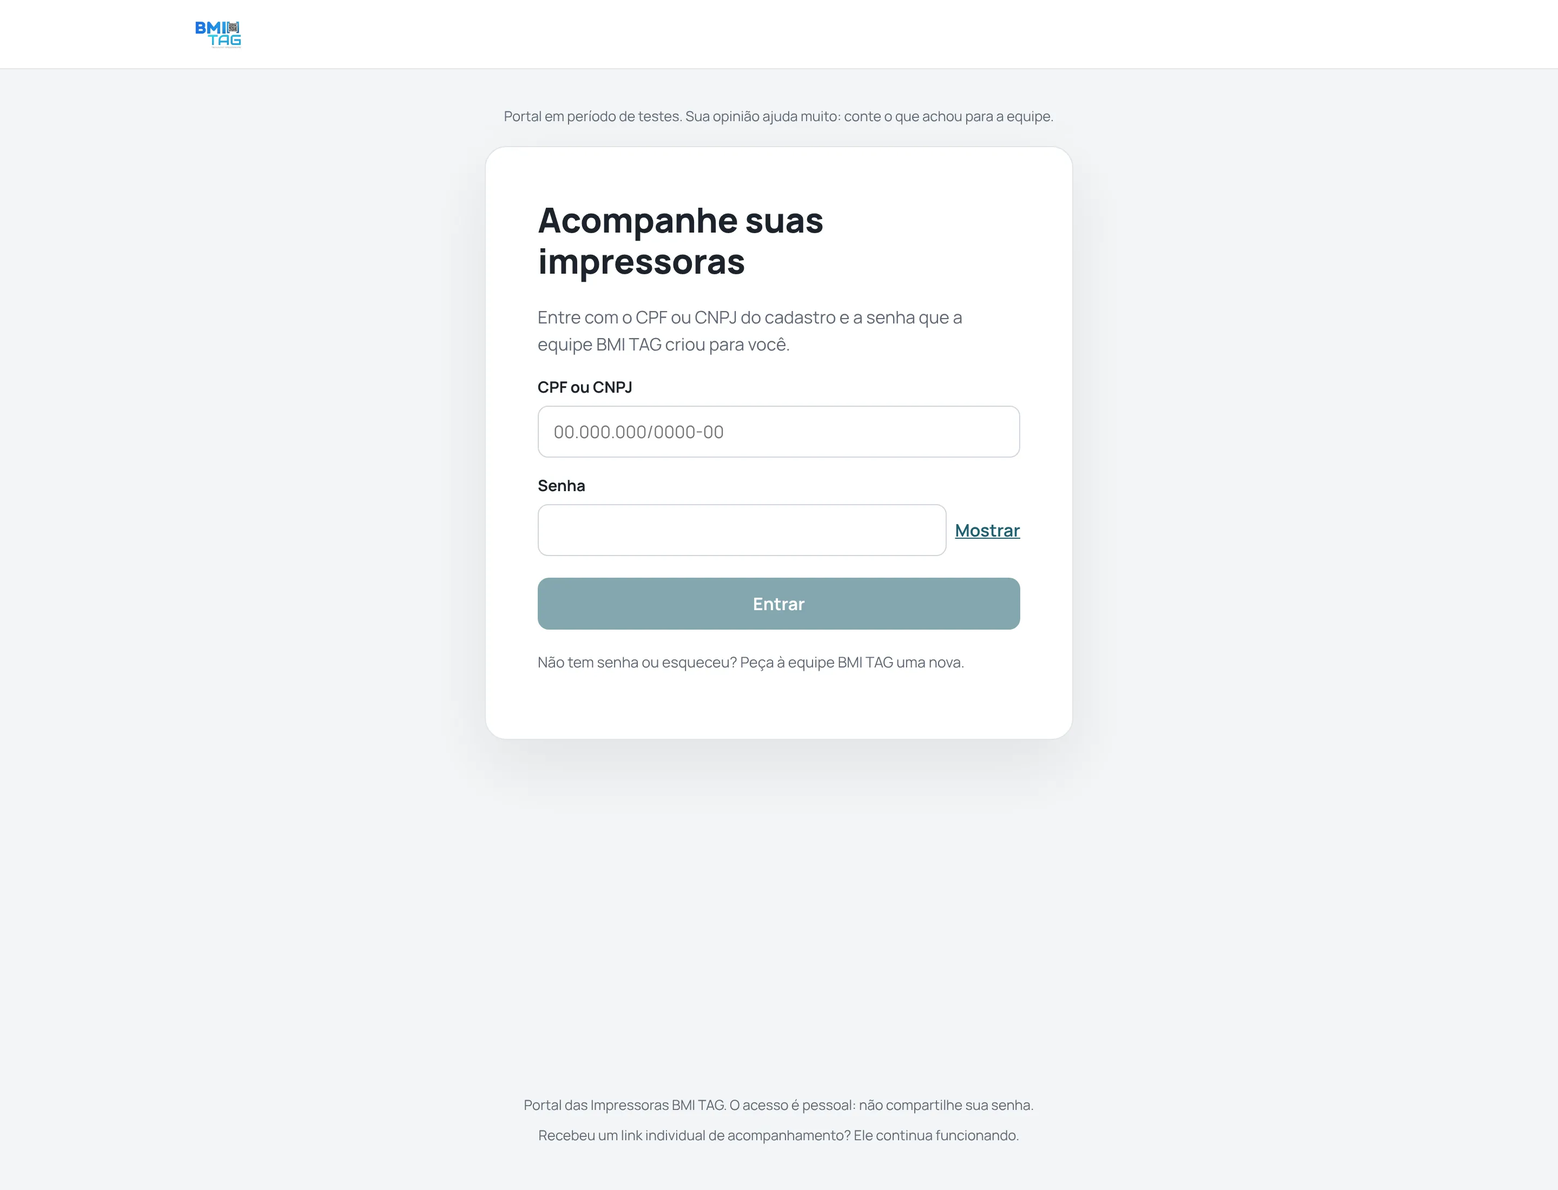
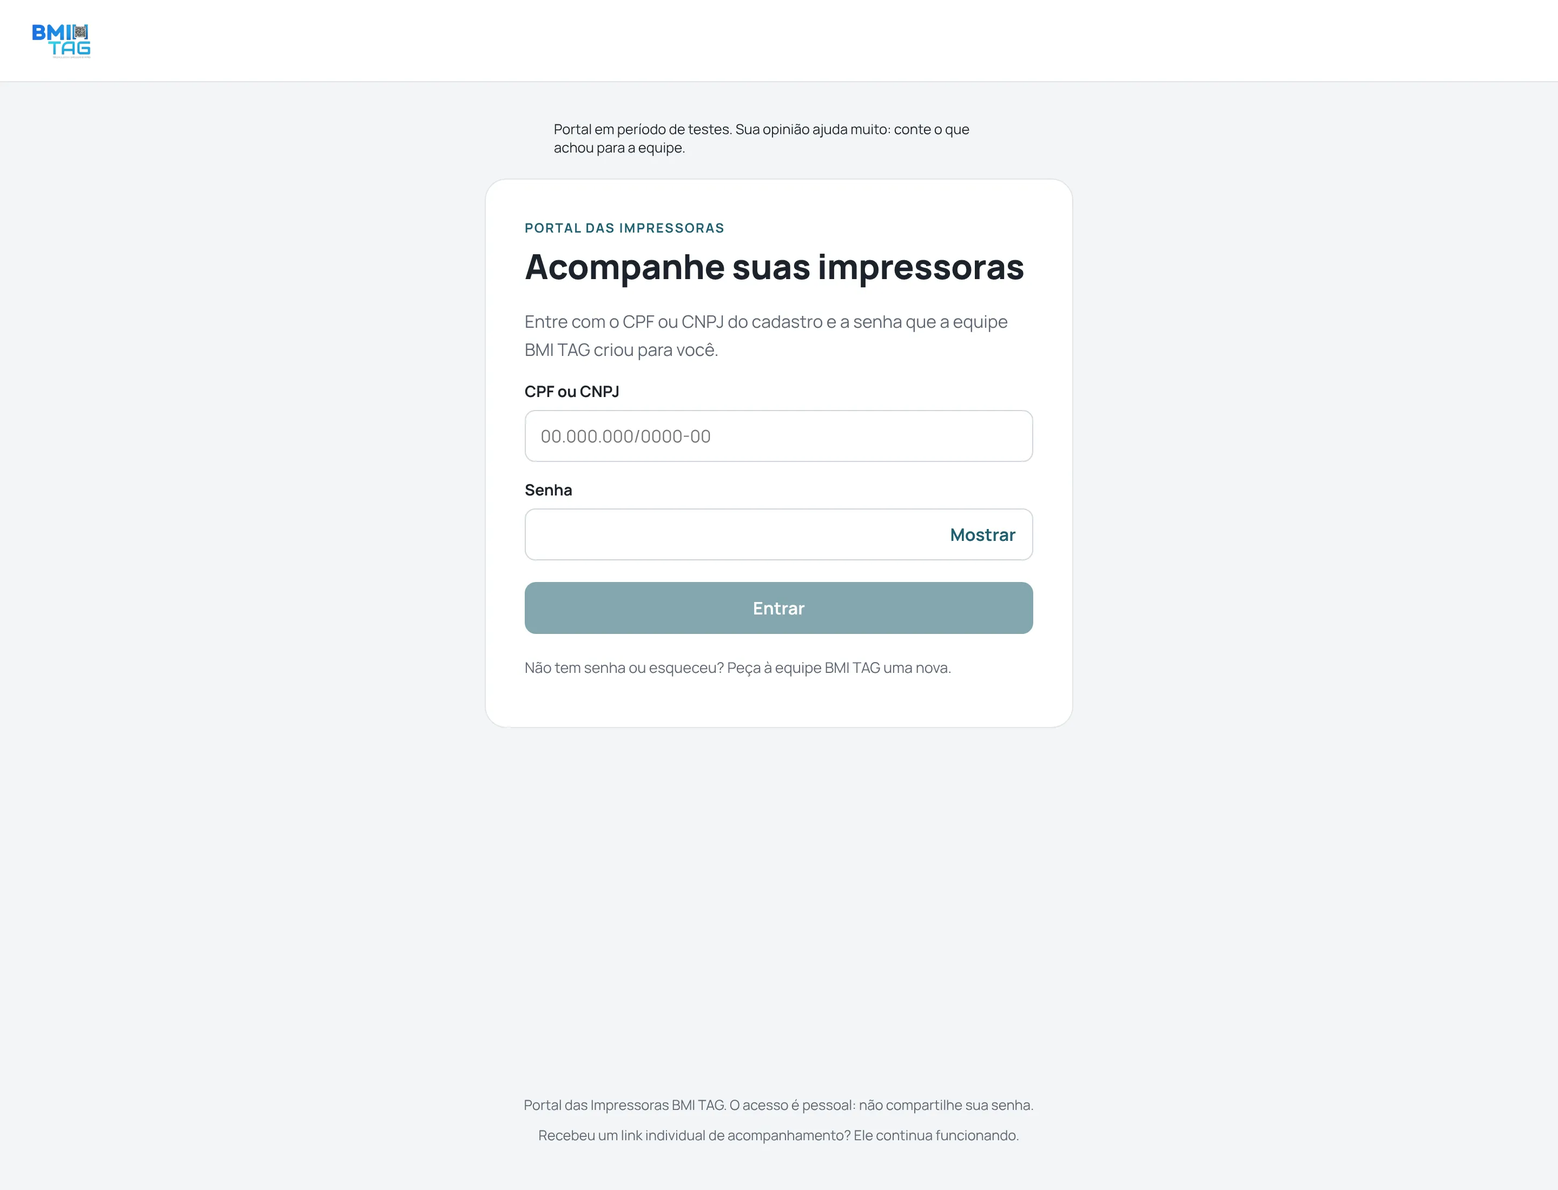
Portal: seguir as pranchetas 09-portal à risca
- Topo com a marca na borda; "Portal das Impressoras" / "Acompanhamento do atendimento" de volta como sobretítulo.
- Entrar: cartão estreito, título forte, "Mostrar" dentro do campo de senha.
- Lista: abas como controle segmentado.
- Etapas concluídas na cor da marca; no celular, seis barras com o nome só da etapa atual (os outros nomes ficam para leitor de tela), sem o resumo "Etapa n de 6"; sai a nota "A etapa atual pode mudar…".
- Orçamento: Aceitar e Recusar lado a lado, total forte, "Solicitar correção" como link.
- Documentos em linhas com "PDF ↓"; contato com WhatsApp em destaque suave e e-mail contornado.
- Painéis de resposta: Voltar/Cancelar à esquerda e a ação à direita; retenção com Voltar e "Recusar mesmo assim" em vermelho; recusa confirmada em vermelho; comprovante com sinal de concluído e "Fechar comprovante" como botão.
- Pronto para retirada: cartão com borda da marca e título "Pronto para retirada" (testes ajustados ao novo nome da região).
- Link sem login: barra no topo, cartão com o status e "Atualizar acompanhamento" fora dele.

Claude-Session: https://claude.ai/code/session_01DaV7KyD8FgGcVZLh5CSD1y

diff --git a/src/public-status/portal-ds.css b/src/public-status/portal-ds.css
@@ -76,18 +76,21 @@
 .timeline li, .timeline-step { flex-direction: column; min-height: 0; }
 .timeline-step { width: 100%; }
 @media (max-width: 480px) {
+  /* Prancheta do celular: seis barras e só o nome da etapa atual embaixo. Os outros nomes saem da tela,
+     mas continuam no leitor de tela (são o nome dos botões de data). */
   .timeline ol { gap: 0.25rem; }
-  /* Os nomes ficam sempre visíveis: também são o nome acessível dos botões de data. */
-  /* Seis colunas não cabem: a lista aberta fica vertical, com a barra à esquerda de cada etapa. */
-  .timeline ol { grid-template-columns: 1fr; gap: 0.35rem; margin-top: 0.6rem; }
-  .timeline li { flex-direction: row; flex-wrap: wrap; align-items: center; gap: 0.6rem; font-size: 0.85rem; }
-  .timeline li::before { flex: 0 0 1.5rem; height: 5px; }
-  .timeline li .timeline-step { flex-direction: row; align-items: center; gap: 0.6rem; width: auto; }
-  .timeline li .timeline-when { position: static; width: auto; margin-left: 2.1rem; padding: 0; color: hsl(var(--ink-soft)); background: none; display: none; opacity: 1; visibility: visible; }
-  .timeline li.is-open > .timeline-when { display: block; flex-basis: 100%; }
-  .timeline li.is-deviation { grid-column: auto; margin-top: 0.25rem; }
-  /* Lista aberta: as barras de cima já repetem as de baixo. */
-  .timeline.is-compact.is-open .timeline-compact-bar { display: none; }
+  .timeline li { font-size: 0.72rem; overflow: visible; overflow-wrap: normal; }
+  .timeline li:not(.is-current) .timeline-step > span:not(.timeline-marker),
+  .timeline li:not(.is-current) > span:not(.timeline-marker):not(.timeline-when) {
+    position: absolute; width: 1px; height: 1px; overflow: hidden; clip: rect(0 0 0 0); white-space: nowrap;
+  }
+  /* Atendimento concluído não tem etapa atual: mostra o nome da última. */
+  .timeline.is-concluido li:nth-child(6) .timeline-step > span:not(.timeline-marker),
+  .timeline.is-concluido li:nth-child(6) > span:not(.timeline-marker):not(.timeline-when) {
+    position: static; width: auto; height: auto; overflow: visible; clip: auto; white-space: normal;
+  }
+  .timeline li.is-current { z-index: 1; }
+  .timeline li.is-current > span, .timeline li.is-current .timeline-step > span { min-width: 6rem; }
 }
 
 /* "Etapa registrada em": uma linha discreta, sem caixa. */
@@ -125,7 +128,6 @@
   }
   .portal-quote :is(.confirm-box, .portal-request-box, .sent-box) .action-row { display: grid; grid-template-columns: 1fr 1fr; }
   .portal-quote :is(.confirm-box, .portal-request-box, .sent-box) .action-row > * { flex: none; }
-  .portal-quote .portal-retention .action-row { grid-template-columns: 1fr; }
   /* Com um painel aberto, a barra fixa de decisão sai de cena. */
   .portal-shell:has(.portal-quote :is(.confirm-box, .portal-request-box, .portal-receipt, .portal-request-done)) .portal-decision-bar { display: none; }
 }
@@ -134,3 +136,77 @@
   .portal-quote .confirm-box, .portal-quote .portal-request-box, .portal-quote .sent-box { animation: none; }
 }
 .portal-title { font-weight: 800; letter-spacing: -0.01em; }
+
+/* ─── Ajustes para seguir as pranchetas 09-portal ─── */
+.portal-topbar { padding: 0.6rem 1.5rem; }
+.portal-topbar .status-brand img { height: 3.5rem; max-width: 11rem; }
+.portal-shell .eyebrow, .portal-publico .eyebrow {
+  display: block; margin: 0 0 0.6rem; color: hsl(var(--primary)); font-size: 0.75rem; letter-spacing: 0.1em;
+}
+.portal-shell .status-card.is-detalhe .eyebrow { display: none; }
+.portal-title { margin: 0 0 1rem; font-size: clamp(1.6rem, 3.2vw, 2rem); line-height: 1.15; }
+
+/* Entrar: cartão estreito, aviso alinhado com ele, "Mostrar" dentro do campo. */
+.portal-shell > .status-card.portal-login-card { width: min(100%, 27.5rem); align-self: center; padding: 2.25rem 2.25rem 2rem; box-shadow: none; }
+.portal-shell:has(.portal-login-card) .portal-beta { width: min(100%, 27.5rem); align-self: center; text-align: left; color: hsl(var(--ink)); }
+.portal-password { position: relative; }
+.portal-password .portal-input { padding-right: 5.5rem; }
+.portal-password .link-button { position: absolute; right: 1rem; top: 50%; transform: translateY(-50%); text-decoration: none; font-weight: 700; }
+
+/* Lista: abas como controle segmentado. */
+.portal-tabs { padding: 0.2rem; border: 1px solid hsl(var(--line)); background: hsl(var(--surface)); }
+.portal-tabs button { min-height: 2.25rem; font-size: 0.92rem; }
+.portal-tabs button.is-active { color: hsl(var(--primary)); background: hsl(var(--acc-soft)); box-shadow: none; }
+.portal-item-name { font-weight: 600; font-size: 1.08rem; }
+.portal-badge.is-muted { justify-self: start; padding: 0.25rem 0.7rem; border-radius: 999px; background: hsl(var(--soft)); color: hsl(var(--ink-soft)); font-weight: 700; font-size: 0.82rem; }
+
+/* Etapas concluídas na cor da marca; a atual na cor da situação. */
+.timeline li.is-complete::before { background: hsl(var(--primary)); }
+
+/* Orçamento: itens em destaque, total forte, Aceitar e Recusar lado a lado, correção como link. */
+.portal-quote .quote-line > span:first-child { font-weight: 600; color: hsl(var(--ink)); }
+.portal-quote .quote-total span, .portal-quote .quote-total strong { font-size: 1.3rem; font-weight: 800; color: hsl(var(--ink)); }
+.portal-inline-decision { grid-template-columns: 1fr 1fr; }
+.portal-solicitar { justify-self: center; font-weight: 700; text-decoration: none; }
+.action-stack { display: grid; gap: 0.75rem; }
+
+/* Documentos: linhas com "PDF ↓" à direita. */
+.portal-documentos { margin-top: 0; }
+.portal-documentos h3 { margin-bottom: 0.75rem; font-size: 1.15rem; }
+.portal-documentos ul { display: grid; gap: 0.6rem; }
+.portal-doc-linha {
+  display: flex; width: 100%; justify-content: space-between; align-items: center; gap: 1rem;
+  border: 0; background: hsl(var(--soft)); text-align: left;
+}
+.portal-doc-baixar { flex: 0 0 auto; color: hsl(var(--primary)); font-weight: 700; }
+
+/* Contato: WhatsApp em destaque suave, e-mail e telefone contornados. */
+.contact-card ul { gap: 0.6rem; }
+.contact-card a.secondary-button { min-height: 2.5rem; padding: 0.45rem 1rem; color: hsl(var(--ink)); text-decoration: none; overflow-wrap: anywhere; }
+.contact-card a.portal-contato-whats { border-color: transparent; color: hsl(var(--primary)); background: hsl(var(--acc-soft)); }
+
+/* Respostas: recusar em vermelho, WhatsApp suave na retenção, comprovante com o sinal de concluído. */
+.primary-button.portal-perigo { background: hsl(var(--st-bad)); }
+.portal-whats-suave { display: flex; width: 100%; margin: 0.75rem 0; border-color: transparent; color: hsl(var(--primary)); background: hsl(var(--acc-soft)); }
+.portal-retention .action-row { display: grid; grid-template-columns: 1fr 1fr; gap: 0.6rem; }
+.portal-receipt-ok {
+  display: grid; place-items: center; width: 2.5rem; height: 2.5rem; margin-bottom: 0.75rem;
+  border-radius: 0.6rem; color: hsl(var(--st-ok)); background: hsl(var(--st-ok-bg)); font-weight: 800;
+}
+.portal-quote .sent-box.portal-receipt strong { display: block; color: hsl(var(--ink)); font-size: 1.15rem; }
+.portal-quote .sent-box.portal-receipt { color: hsl(var(--ink)); }
+
+/* Link de acompanhamento sem login: cartão estreito, botão fora dele. */
+.portal-publico { width: min(100% - 2rem, 34rem); padding-top: 0; }
+.status-card.is-publico { padding: 0; border: 0; background: none; box-shadow: none; }
+.portal-atualizar { width: 100%; margin-top: 1rem; }
+.portal-publico .status-footer { text-align: left; }
+
+@media (max-width: 640px) {
+  .portal-shell > .status-card.portal-login-card { padding: 1.4rem 1.25rem; }
+  .portal-quote .sent-box.portal-receipt > .portal-full { margin-top: 0.75rem; }
+}
+.portal-pagina .notice-box { font-weight: 600; }
+.portal-detail-side > .portal-destaque.is-pronto { border: 2px solid hsl(var(--primary)); }
+.portal-destaque.is-pronto h2 { margin: 0 0 0.75rem; color: hsl(var(--ink)); font-size: 1.25rem; }
+.contact-card .answer-hint { margin-top: 0.6rem; }

diff --git a/src/public-status/PortalOrcamento.tsx b/src/public-status/PortalOrcamento.tsx
@@ -410,6 +410,7 @@ export default function PortalOrcamento({ session, detalhe, orcamento, recarrega
 
       {comprovante && (
         <div className={`sent-box portal-receipt${comprovante.decisao === "RECUSAR" ? " is-recusa" : ""}`} role="status">
+          <span className="portal-receipt-ok" aria-hidden="true">✓</span>
           <strong>Resposta registrada no AutoOS</strong>
           <p>
             {ROTULO_DECISAO[comprovante.decisao]} — {comprovante.equipamento}{comprovante.serie ? ` (série ${comprovante.serie})` : ""},
@@ -419,7 +420,7 @@ export default function PortalOrcamento({ session, detalhe, orcamento, recarrega
           {comprovante.ordemCompra && <p>Ordem de compra: <strong>{comprovante.ordemCompra}</strong></p>}
           <p>A equipe já foi avisada; enviar a mensagem abaixo é opcional. Efetivação às {shortTime(comprovante.janelaAte)}.</p>
           {textoComprovante && <MensagemPronta whatsapp={whatsapp} texto={textoComprovante} />}
-          <button className="link-button" type="button" onClick={() => setComprovante(null)}>Fechar comprovante</button>
+          <button className="primary-button portal-full" type="button" onClick={() => setComprovante(null)}>Fechar comprovante</button>
         </div>
       )}
 
@@ -427,14 +428,15 @@ export default function PortalOrcamento({ session, detalhe, orcamento, recarrega
         <div className="confirm-box portal-retention" ref={caixaEtapa} role="group" aria-labelledby="portal-retention-title">
           <h2 id="portal-retention-title">Tem certeza que quer recusar?</h2>
           <p>Qualquer dúvida, entre em contato conosco.</p>
+          {whatsapp && (
+            <a className="secondary-button portal-link-button portal-whats-suave" href={whatsappUrl(whatsapp, textoConversa)} target="_blank" rel="noopener noreferrer">
+              Falar com a equipe no WhatsApp
+            </a>
+          )}
           <div className="action-row portal-retention-actions">
-            {whatsapp && (
-              <a className="secondary-button portal-link-button" href={whatsappUrl(whatsapp, textoConversa)} target="_blank" rel="noopener noreferrer">
-                Falar com a equipe no WhatsApp
-              </a>
-            )}
+            <button className="secondary-button" type="button" onClick={() => setEtapa(null)}>Voltar</button>
+            <button className="primary-button portal-perigo" type="button" onClick={() => prosseguir("RECUSAR")}>Recusar mesmo assim</button>
           </div>
-          <button className="link-button portal-refuse-anyway" type="button" onClick={() => prosseguir("RECUSAR")}>Recusar mesmo assim</button>
         </div>
       )}
 
@@ -448,8 +450,8 @@ export default function PortalOrcamento({ session, detalhe, orcamento, recarrega
               maxLength={72} value={senha} onChange={(event) => setSenha(event.target.value)} autoFocus />
             {erro && <p className="portal-error" role="alert">{erro}</p>}
             <div className="action-row">
-              <button className="primary-button" type="submit" disabled={busy || !senha}>{busy ? "Conferindo…" : "Confirmar senha"}</button>
               <button className="secondary-button" type="button" disabled={busy} onClick={() => setEtapa(null)}>Cancelar</button>
+              <button className="primary-button" type="submit" disabled={busy || !senha}>{busy ? "Conferindo…" : "Confirmar senha"}</button>
             </div>
           </form>
         </div>
@@ -481,10 +483,10 @@ export default function PortalOrcamento({ session, detalhe, orcamento, recarrega
           {etapa.decisao === "DESFEITA" && <p className="answer-hint">O orçamento volta a aguardar resposta.</p>}
           {erro && <p className="portal-error" role="alert">{erro}</p>}
           <div className="action-row">
-            <button className="primary-button" type="button" disabled={busy} onClick={() => void responder()}>
+            <button className="secondary-button" type="button" disabled={busy} onClick={() => setEtapa(null)}>Voltar</button>
+            <button className={`primary-button${etapa.decisao === "RECUSAR" ? " portal-perigo" : ""}`} type="button" disabled={busy} onClick={() => void responder()}>
               {busy ? "Registrando…" : etapa.decisao === "APROVAR" ? "Confirmar aceite" : etapa.decisao === "RECUSAR" ? "Confirmar recusa" : "Cancelar resposta"}
             </button>
-            <button className="secondary-button" type="button" disabled={busy} onClick={() => setEtapa(null)}>Voltar</button>
           </div>
         </div>
       )}
@@ -524,11 +526,11 @@ export default function PortalOrcamento({ session, detalhe, orcamento, recarrega
           )}
           {erro && <p className="portal-error" role="alert">{erro}</p>}
           <div className="action-row">
+            <button className="secondary-button" type="button" disabled={busy} onClick={() => setEtapa(null)}>Voltar</button>
             <button className="primary-button" type="button" disabled={busy || mensagem.trim().length === 0}
               onClick={() => void solicitar("MUDANCA")}>
               {busy ? "Registrando…" : "Solicitar correção"}
             </button>
-            <button className="secondary-button" type="button" disabled={busy} onClick={() => setEtapa(null)}>Voltar</button>
           </div>
         </div>
       )}
@@ -560,7 +562,7 @@ export default function PortalOrcamento({ session, detalhe, orcamento, recarrega
             </button>
           )}
           {detalhe.podeDecidir && respostaAtiva?.estado === "EFETIVADA" && (
-            <button className="secondary-button" type="button" onClick={() => abrirSolicitacao("corrigir")}>Solicitar correção</button>
+            <button className="link-button portal-solicitar" type="button" onClick={() => abrirSolicitacao("corrigir")}>Solicitar correção</button>
           )}
         </div>
       )}

diff --git a/src/public-status/PortalDetalhe.tsx b/src/public-status/PortalDetalhe.tsx
@@ -120,7 +120,6 @@ export default function PortalDetalhe({ session, equipamentoId, onExpirou }: Pro
                   titulo={preparando ? TITULO_EM_PREPARACAO : data.titulo}
                   orientacao={preparando ? ORIENTACAO_EM_PREPARACAO : data.orientacao}
                   statusAlteradoEm={data.statusAlteradoEm}
-                  compacto
                   etapas={data.etapas}
                   concluido={concluido}
                   identificacao={(data.serie || data.patrimonio || data.entradaEm) && (
@@ -185,13 +184,13 @@ function ContatoCard({ contato }: { contato: ContatoEmpresa | null }) {
       <ul>
         {contato.whatsapp && (
           <li>
-            <a href={`https://wa.me/${whatsappDigits.startsWith("55") && whatsappDigits.length >= 12 ? whatsappDigits : `55${whatsappDigits}`}`} target="_blank" rel="noopener noreferrer">
+            <a className="secondary-button portal-contato-whats" href={`https://wa.me/${whatsappDigits.startsWith("55") && whatsappDigits.length >= 12 ? whatsappDigits : `55${whatsappDigits}`}`} target="_blank" rel="noopener noreferrer">
               WhatsApp
             </a>
           </li>
         )}
-        {contato.email && <li><a href={`mailto:${contato.email}`}>{contato.email}</a></li>}
-        {contato.telefone && <li><a href={`tel:${contato.telefone.replace(/[^\d+]/g, "")}`}>{contato.telefone}</a></li>}
+        {contato.email && <li><a className="secondary-button" href={`mailto:${contato.email}`}>{contato.email}</a></li>}
+        {contato.telefone && <li><a className="secondary-button" href={`tel:${contato.telefone.replace(/[^\d+]/g, "")}`}>{contato.telefone}</a></li>}
       </ul>
       {contato.horario && <p className="answer-hint">{contato.horario}</p>}
     </div>

diff --git a/src/public-status/PortalDetalhe.test.tsx b/src/public-status/PortalDetalhe.test.tsx
@@ -205,7 +205,7 @@ describe("pronto para retirada", () => {
 
   it("mostra endereço, mapa embutido, botão do Google Maps e o valor", async () => {
     await abrir(pronto());
-    const secao = screen.getByRole("region", { name: "Retire no endereço abaixo" });
+    const secao = screen.getByRole("region", { name: "Pronto para retirada" });
     expect(within(secao).getByText(ENDERECO)).toBeInTheDocument();
     expect(within(secao).getByText(/R\$\s*350,00/)).toBeInTheDocument();
     const mapa = within(secao).getByTitle(`Mapa: ${ENDERECO}`);
@@ -222,7 +222,7 @@ describe("pronto para retirada", () => {
     await abrir(pronto({ contatoEmpresa: null }));
     expect(screen.queryByTitle(/^Mapa/)).toBeNull();
     expect(screen.queryByRole("link", { name: "Abrir no Google Maps" })).toBeNull();
-    expect(screen.getByRole("region", { name: "Seu equipamento está pronto" })).toHaveTextContent(/R\$\s*350,00/);
+    expect(screen.getByRole("region", { name: "Pronto para retirada" })).toHaveTextContent(/R\$\s*350,00/);
   });
 });
 
@@ -269,7 +269,7 @@ describe("Pronto com valor atualizado", () => {
     await abrir(detalhe({
       status: "PRONTO", titulo: "Pronto para retirada", orcamento: orcamento({ estado: "ENCERRADA" }), valores: { orcamento: 350, final: null, atual: 400 },
     }));
-    const destaque = screen.getByRole("region", { name: "Seu equipamento está pronto" });
+    const destaque = screen.getByRole("region", { name: "Pronto para retirada" });
     expect(destaque.textContent?.match(/R\$\s*400,00/g)).toHaveLength(1);
     expect(destaque).toHaveTextContent(/orçamento aprovado: R\$\s*350,00/);
     expect(document.querySelector(".portal-valor-linha")).toHaveTextContent(/R\$\s*400,00/);

diff --git a/src/public-status/PortalDestaques.tsx b/src/public-status/PortalDestaques.tsx
@@ -40,8 +40,7 @@ export function DestaqueProntoRetirada({ detalhe }: { detalhe: DetalheAtendiment
   const atualizado = valorAtualizado(detalhe);
   return (
     <section className="portal-destaque is-pronto" aria-labelledby="portal-pronto-titulo">
-      <span className="portal-destaque-pill">Pronto para retirada</span>
-      <h2 id="portal-pronto-titulo">{endereco ? "Retire no endereço abaixo" : "Seu equipamento está pronto"}</h2>
+      <h2 id="portal-pronto-titulo">Pronto para retirada</h2>
       {valor != null && (
         <p className="portal-destaque-valor"><span>Valor do atendimento</span><strong>{money(valor)}</strong></p>
       )}
@@ -104,8 +103,9 @@ export function DocumentosCard({ detalhe, sessao, destaque = false }: { detalhe:
       <ul>
         {docs.map((doc) => (
           <li key={doc.chave}>
-            <button type="button" className={destaque ? "primary-button" : "secondary-button"} disabled={gerando !== null} onClick={() => void baixar(doc)}>
+            <button type="button" className={destaque ? "primary-button" : "secondary-button portal-doc-linha"} disabled={gerando !== null} onClick={() => void baixar(doc)}>
               {gerando === doc.chave ? "Baixando…" : doc.rotulo}
+              {!destaque && <span className="portal-doc-baixar" aria-hidden="true">PDF ↓</span>}
             </button>
           </li>
         ))}

diff --git a/src/public-status/PublicStatusPage.tsx b/src/public-status/PublicStatusPage.tsx
@@ -74,10 +74,11 @@ export default function PublicStatusPage() {
       : { title: "Este acompanhamento não está disponível", description: "Confira se o link está correto ou fale com a equipe BMI TAG pelo canal em que recebeu o link." };
 
   return (
-    <main className="status-shell">
-      <StatusBrand />
+    <main className="status-shell portal-publico">
+      <div className="portal-topbar"><StatusBrand /></div>
 
-      <section className="status-card" aria-live="polite">
+      <section className="status-card is-publico" aria-live="polite">
+        <div className="portal-cartao">
         <p className="eyebrow">Acompanhamento do atendimento</p>
 
         {loading && (
@@ -114,11 +115,14 @@ export default function PublicStatusPage() {
                 />
               </section>
             )}
-
-            <button className="refresh-button" type="button" onClick={() => void loadStatus()}>
-              Atualizar acompanhamento
-            </button>
           </>
+        )}
+        </div>
+
+        {!loading && !error && data && (
+          <button className="secondary-button portal-full portal-atualizar" type="button" onClick={() => void loadStatus()}>
+            Atualizar acompanhamento
+          </button>
         )}
 
         {checkedAt && !loading && !error && (

diff --git a/src/public-status/PortalApp.test.tsx b/src/public-status/PortalApp.test.tsx
@@ -453,7 +453,7 @@ describe("painel do orçamento (ticket T4)", () => {
     expect(screen.getByText("Qualquer dúvida, entre em contato conosco.")).toBeInTheDocument();
     const grupo = screen.getByRole("group", { name: "Tem certeza que quer recusar?" });
     const acoes = Array.from(grupo.querySelectorAll("button, a")).map((el) => el.textContent);
-    expect(acoes).toEqual(["Falar com a equipe no WhatsApp", "Recusar mesmo assim"]);
+    expect(acoes).toEqual(["Falar com a equipe no WhatsApp", "Voltar", "Recusar mesmo assim"]);
     const link = screen.getByRole("link", { name: "Falar com a equipe no WhatsApp" });
     expect(decodeURIComponent(link.getAttribute("href") ?? "")).toContain("CNPJ 11.222.333/0001-81");
     expect(api.responder).not.toHaveBeenCalled();

diff --git a/src/public-status/StatusView.tsx b/src/public-status/StatusView.tsx
@@ -160,7 +160,6 @@ export function StatusView({ equipamento, titulo, orientacao, statusAlteradoEm, 
               </li>
             )}
           </ol>
-          <p className="timeline-note">A etapa atual pode mudar após uma revisão do atendimento.</p>
         </nav>
       )}
 
